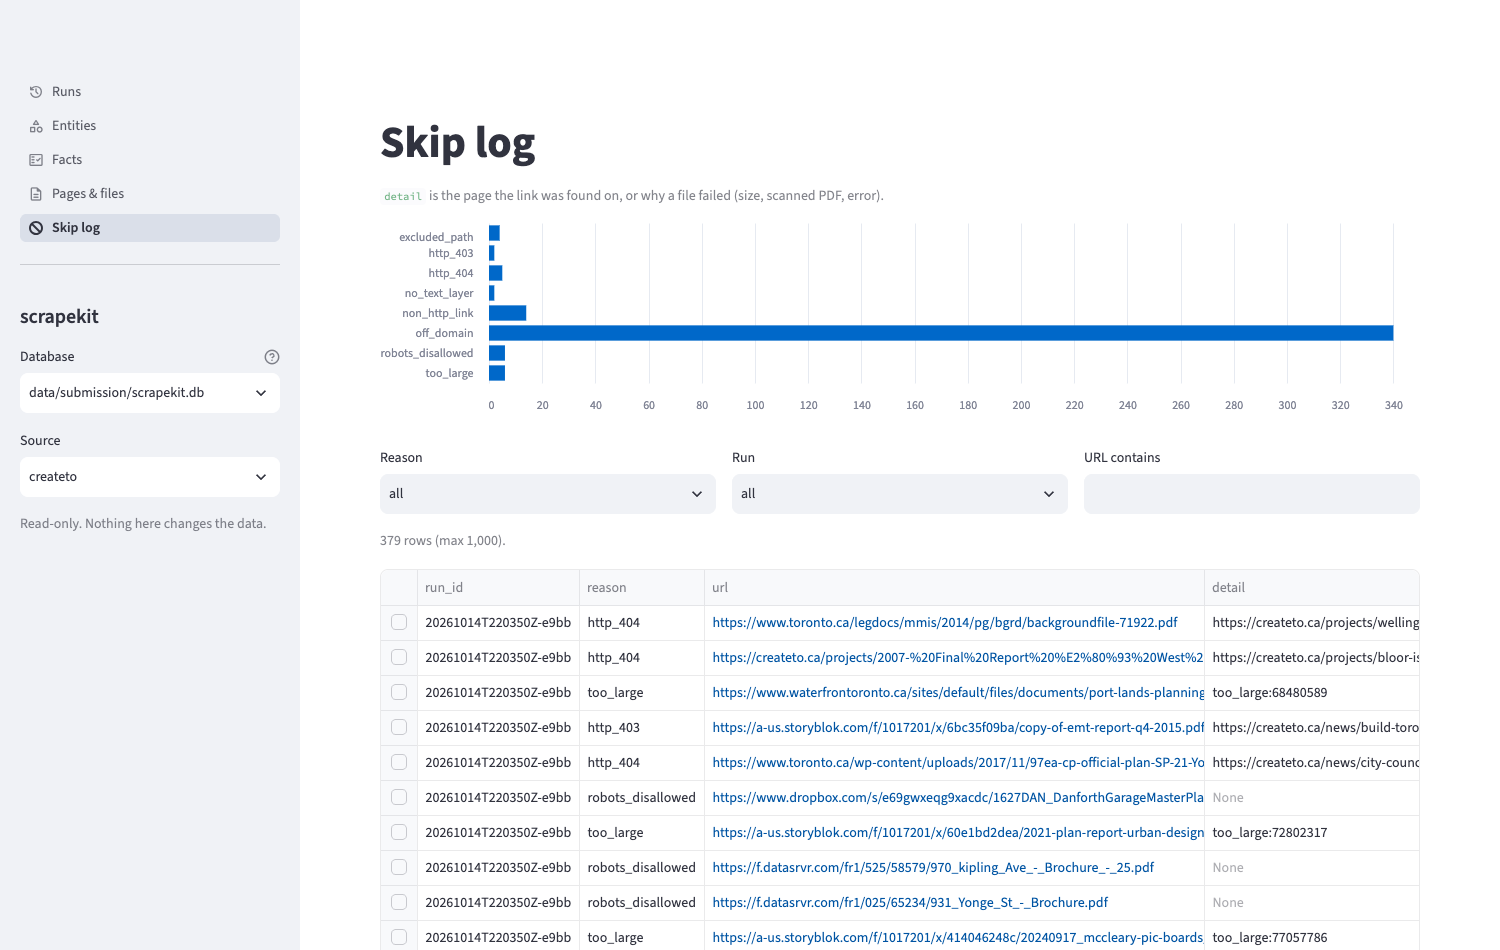
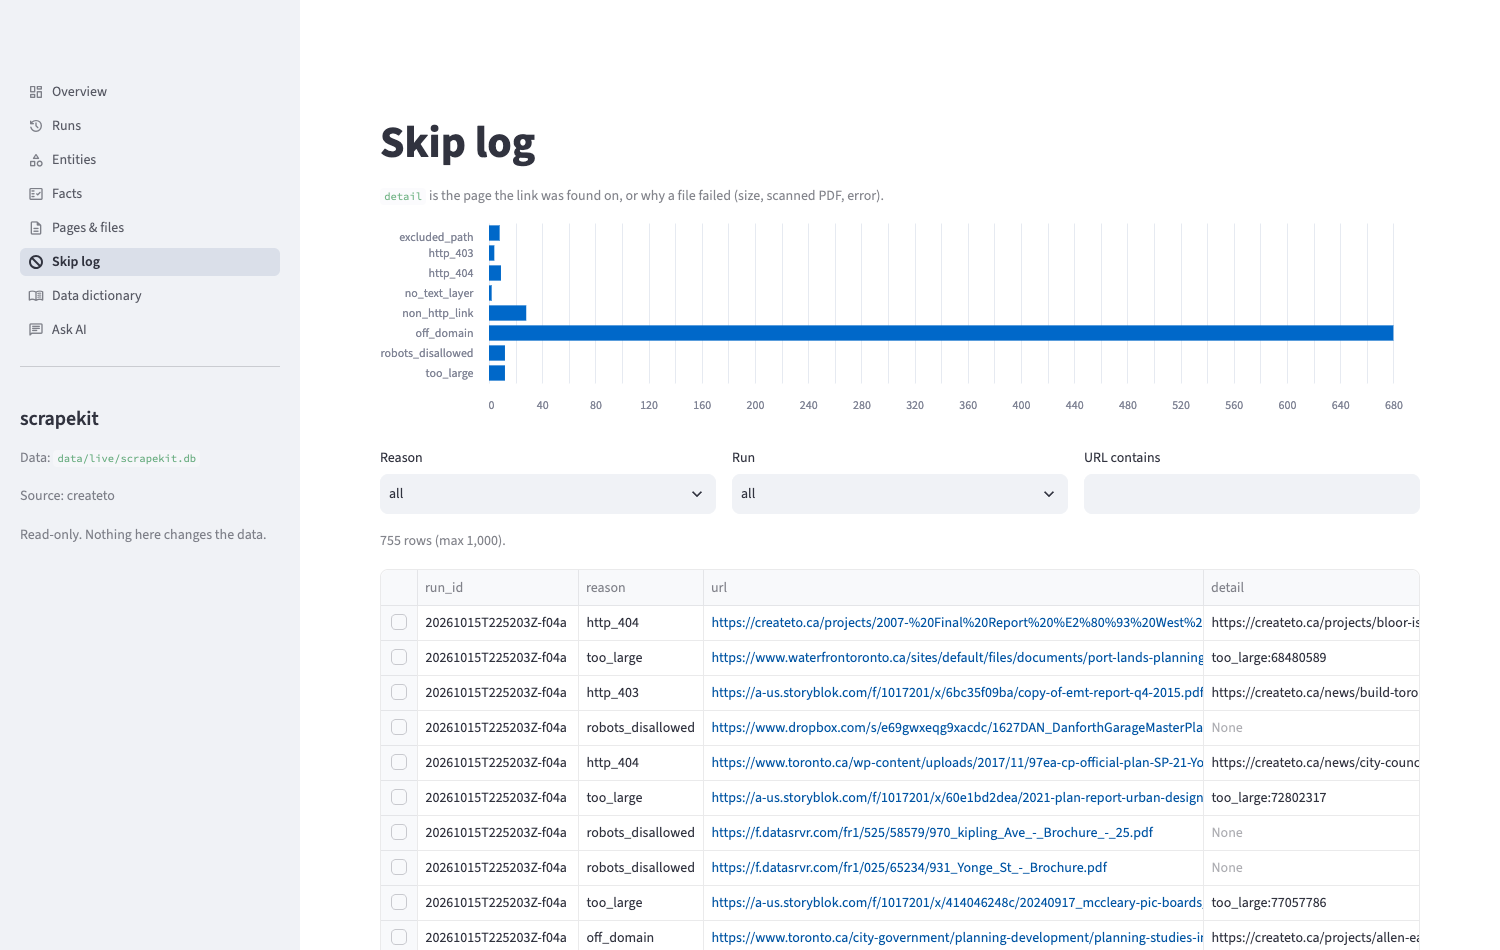
Data browser: one database per session, no picker
The app opens the database chosen with --data-dir and shows its path in
the sidebar; the source picker appears only when there is more than one
source. Screenshots retaken.

diff --git a/src/scrapekit/ui/app.py b/src/scrapekit/ui/app.py
@@ -1,6 +1,6 @@
 """Entry point: `scrapekit ui` runs `streamlit run` on this file.
 
-Sidebar: which database and which source. Pages: runs, entities, facts, pages & files, skips.
+Sidebar: the database in use (set by --data-dir) and the source. Pages: runs, entities, facts, pages & files, skips.
 """
 
 from pathlib import Path
@@ -13,15 +13,15 @@ st.set_page_config(page_title="scrapekit data browser", layout="wide")
 
 with st.sidebar:
     st.header("scrapekit")
-    found = sorted(str(p) for root in ("data", "examples") for p in Path(root).glob("**/scrapekit.db"))
-    default = str(common.db_path())
-    options = sorted(set(found) | {default})
-    st.session_state["db_path"] = st.selectbox("Database", options, index=options.index(default),
-                                               help="Each data folder holds one SQLite database plus raw/ copies.")
-    if Path(st.session_state["db_path"]).exists():
-        names = q.sources(common.open_conn(st.session_state["db_path"]))
-        if names:
+    path = common.db_path()  # one database, chosen when the app starts: scrapekit ui --data-dir <folder>
+    st.caption(f"Data: `{path}`")
+    if path.exists():
+        names = q.sources(common.open_conn(str(path)))
+        if len(names) > 1:
             st.session_state["source"] = st.selectbox("Source", names)
+        elif names:
+            st.session_state["source"] = names[0]
+            st.caption(f"Source: {names[0]}")
     st.caption("Read-only. Nothing here changes the data.")
 
 views = Path(__file__).parent / "views"

diff --git a/tests/test_ui.py b/tests/test_ui.py
@@ -339,3 +339,11 @@ def test_field_stats(conn):
     phase = stats[("project", "phase")]
     assert (phase["entities"], phase["coverage"], phase["method"]) == (1, 1.0, "parse")
     assert phase["example"] == "Construction" and phase["locator"] == "json phase"
+
+
+def test_app_shows_one_database_without_a_picker(db):
+    os.environ["SCRAPEKIT_UI_DB"] = str(db)
+    at = AppTest.from_file(str(UI / "app.py"), default_timeout=30).run()
+    assert not at.exception
+    assert not [s for s in at.sidebar.selectbox if s.label == "Database"]
+    assert any(str(db.name) in c.value for c in at.sidebar.caption)

diff --git a/src/scrapekit/ui/common.py b/src/scrapekit/ui/common.py
@@ -16,7 +16,7 @@ MAX_INLINE_PDF_BYTES = 15_000_000  # bigger PDFs are slow to embed in the browse
 
 
 def db_path() -> Path:
-    return Path(st.session_state.get("db_path") or os.environ.get(DB_ENV, "data/scrapekit.db"))
+    return Path(os.environ.get(DB_ENV, "data/scrapekit.db"))
 
 
 @st.cache_resource

diff --git a/docs/DESIGN.md b/docs/DESIGN.md
@@ -357,7 +357,8 @@ scrapekit run   ──writes──▶  data/scrapekit.db  +  data/raw/<hash>
 | No HTTP API yet | One local consumer does not need one. Add it when a second consumer (another service, a hosted UI) appears. |
 | Streamlit | See section 3. |
 | Click-through instead of many screens | Every table row opens its details: run → its skips and changed facts; entity → facts → provenance → history; URL → versions → raw copy → facts. |
-| Works for any source | The sidebar lists the sources and databases it finds; nothing in `ui/` names a website (the same guard test covers it). |
+| One database per session | The app opens the database chosen at start (`--data-dir`) and shows its path; no database picker, so a reviewer always knows which data they are looking at. |
+| Works for any source | The sidebar lists the sources in that database; nothing in `ui/` names a website (the same guard test covers it). |
 
 **Provenance panel.** For any fact: source URL, method (rules or LLM), locator (JSON path, PDF metadata key, or page numbers), run, valid from / to, and the content hash of the snapshot it was read from. For an LLM fact the panel shows the saved text of the cited PDF page with the quote highlighted, so the reader checks the claim in one click. If the quote is split by a page footer, the page is shown with a note instead.
 

diff --git a/README.md b/README.md
@@ -137,7 +137,8 @@ A local, read-only app for engineers who consume the data: see what was scraped 
 
 ```bash
 uv sync --extra ui                                # Streamlit, only needed for the UI
-uv run scrapekit ui --data-dir data/submission    # opens http://localhost:8501
+uv run scrapekit ui                               # opens http://localhost:8501 on data/ (where `scrapekit run` writes)
+uv run scrapekit ui --data-dir <folder>           # or any other data folder
 ```
 
 | Page | What you can do |
